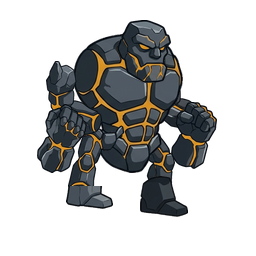
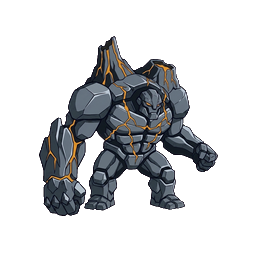
R6 G4 바위 거인 비평 재작화 3개체(boss-t1·boss-t3·special-t4) 반영

diff --git a/asset-source/r6/monsters/stone/STATUS.md b/asset-source/r6/monsters/stone/STATUS.md
@@ -32,3 +32,10 @@
 
 - `special/T2~T4/sheet.png`, `assembly.png`: T1 `crystal-far/near` 관절 기준 및 시트 파츠 비율에 맞춰 조립 정합 보정 (`issues=0`, 모의 `fit_parts` IoU 0.870~0.895).
 - `boss-t2/T2`, `boss-t3/T3/sheet.png`, `assembly.png`: 시트 파츠 비율·관절 자세에 맞춰 조립 정합 보정 (`issues=0`, 모의 `fit_parts` IoU 0.850~0.855).
+
+## G4 비평 검수 재작화 (`docs/renewal/r6/review/G4-monsters-critique.md` 4·8·9항)
+
+- `boss-t1/T1` (비평 4항): 등 위 바위 아치·틸 수정 조각·초대형 비대칭 공성 망치를 갖춘 웅크린 보스 전용 실루엣으로 재작화 (`cut_parts` `issues=0` · 11/11 슬롯, 모의 `fit_parts` IoU `0.731`, 32px 보스-일반 최대 IoU `0.647`, 지형/길 대비 `1.590/1.531`, 흰색·마젠타 잔여 `0/0`).
+- `boss-t3/T3` (비평 8항): 쌍둥이 용암 굴뚝·분화구 어깨·비대칭 지면 충격 팔을 갖춘 화산 거신으로 재작화 (`cut_parts` `issues=0` · 10/10 슬롯, 모의 `fit_parts` IoU `0.763`, 32px 보스-일반 최대 IoU `0.683`, 지형/길 대비 `1.767/1.467`, 흰색·마젠타 잔여 `0/0`).
+- `special/T4` (비평 9항): 다단 육각 현무암 제단·부유 암석 고리·대형 틸 수정탑·좌우 위성 수정 다발로 T3를 상회하는 최종형으로 재작화 (`cut_parts` `issues=0` · 3/3 슬롯, T1 관절 기준 모의 `fit_parts` IoU `0.804`, 지형/길 대비 `2.068/1.462`, 흰색·마젠타 잔여 `0/0`).
+- `docs/renewal/r6/bible/sheets/monsters-stone-parts-all.webp` 갱신 완료.
